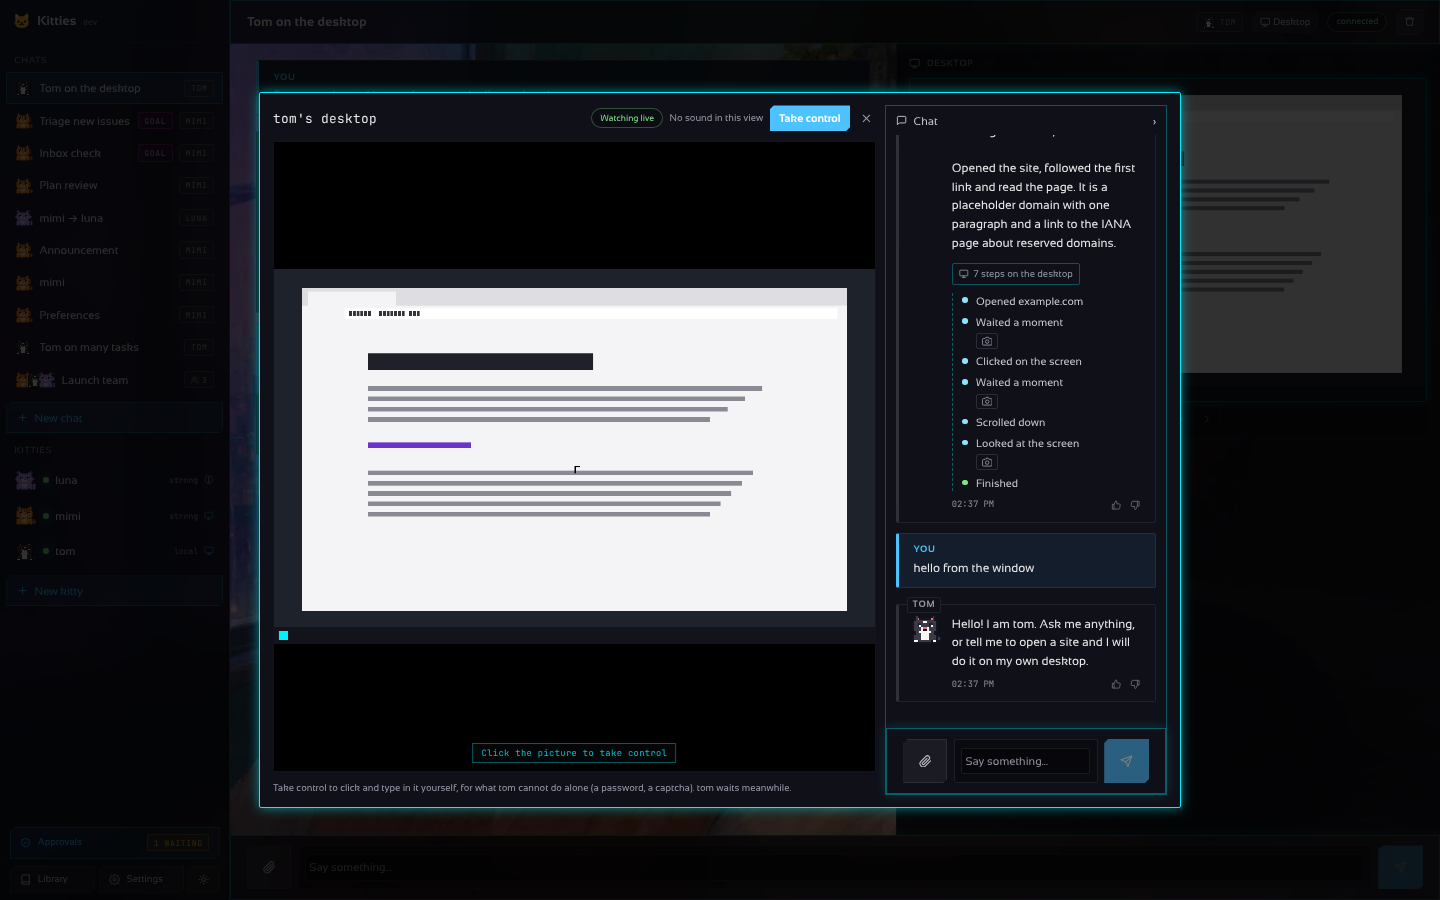
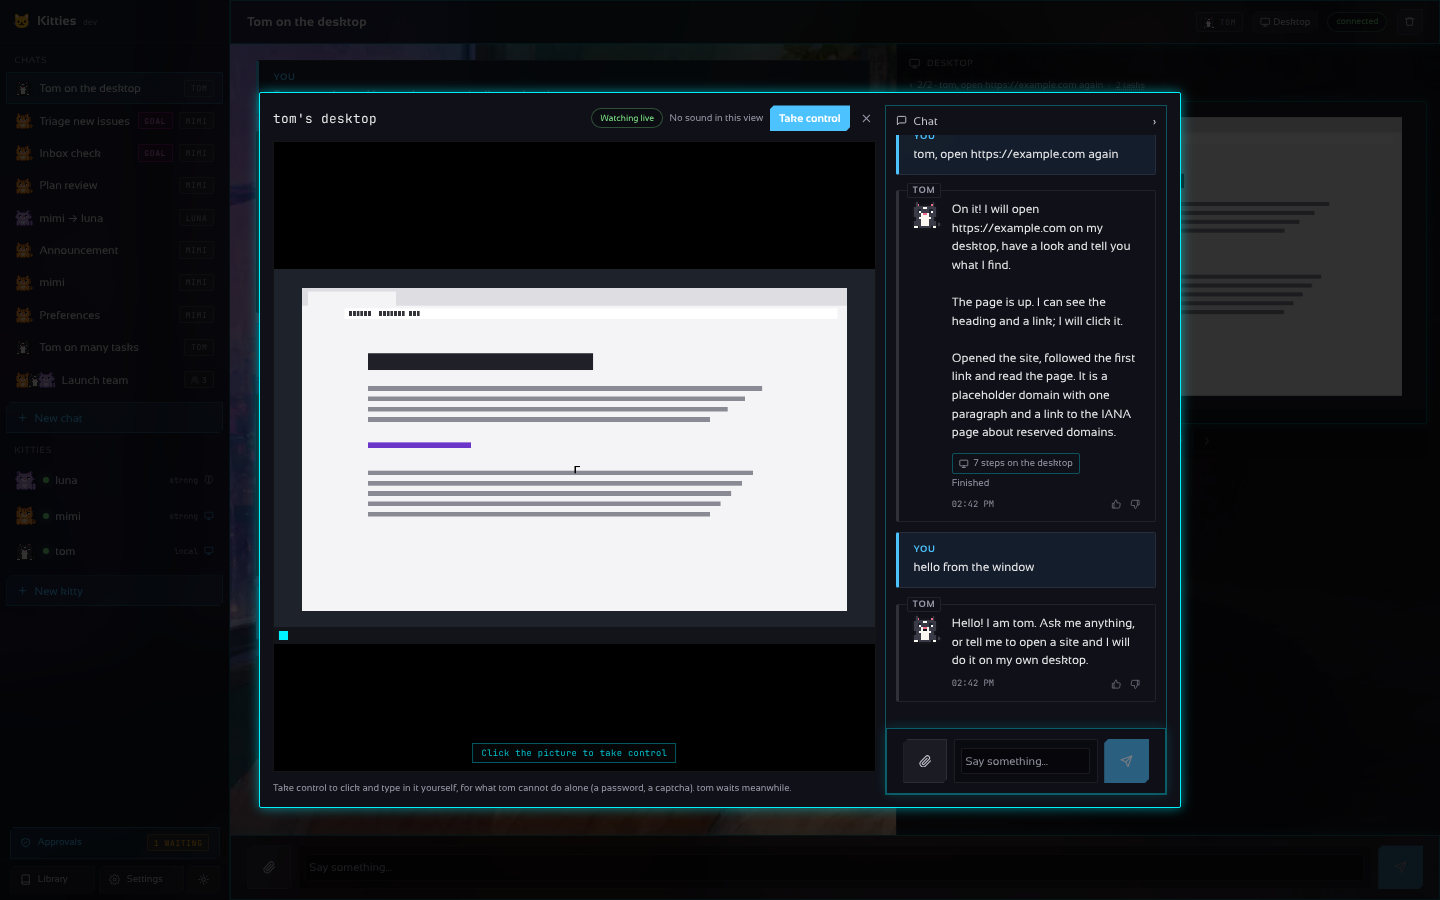
feat(desktop): show the direct chat in the drawer's enlarged desktop
The kitty's drawer loads its existing direct chat (and follows it live) and
passes it to the live desktop sidebar; the start-chat button stays for kitties
with no direct chat yet. Adds the phone screenshot.

Claude-Session: https://claude.ai/code/session_017Z7sUdTrGNJiTuMG8Z7Vs4

diff --git a/desktop/frontend/src/App.tsx b/desktop/frontend/src/App.tsx
@@ -201,11 +201,50 @@ export default function App() {
     }
   }, [current, loadSession]);
 
-  const working = useMemo(() => Boolean(session?.turns?.some((t) => t.working)), [session]);
+  // The chat a kitty's drawer shows beside its desktop: the direct chat with it, when there is one
+  // and no other chat is open (it is the chat of the page when it is the open one).
+  const [drawerSession, setDrawerSession] = useState<Session | null>(null);
+  const drawerKitty = kittyOpen
+    ? kitties.find((k) => k.id === kittyOpen || k.name === kittyOpen)
+    : undefined;
+  const drawerChatId = !current
+    ? chats.find((c) => c.members.length === 1 && c.members[0] === drawerKitty?.id)?.id
+    : undefined;
+  useEffect(() => {
+    if (!drawerChatId) {
+      setDrawerSession(null);
+      return;
+    }
+    let alive = true;
+    api
+      .chat(drawerChatId)
+      .then((s) => alive && setDrawerSession(s))
+      .catch(() => undefined);
+    const stop = watchChat(drawerChatId, (ev) => {
+      if (ev.turn === undefined || ev.index === undefined) {
+        return;
+      }
+      setDrawerSession((prev) => {
+        if (!prev || prev.id !== ev.session) {
+          return prev;
+        }
+        const turns = [...(prev.turns || [])];
+        turns[ev.index!] = ev.turn!;
+        return { ...prev, turns };
+      });
+    });
+    return () => {
+      alive = false;
+      stop();
+    };
+  }, [drawerChatId]);
+  // chatNow is the chat messages go to: the open one, or the drawer's.
+  const chatNow = current ? session : drawerSession;
+  const working = useMemo(() => Boolean(chatNow?.turns?.some((t) => t.working)), [chatNow]);
   // unshown is the message being sent until the chat itself has it.
   const unshown =
     pending !== null &&
-    !(session?.turns || [])
+    !(chatNow?.turns || [])
       .slice(pendingFrom)
       .some((t) => !t.kitty && t.text.trim() === pending.trim())
       ? pending
@@ -305,21 +344,25 @@ export default function App() {
   };
 
   const send = async (text: string, files: File[] = []) => {
-    if (!session) {
+    if (!chatNow) {
       return;
     }
-    setPendingFrom((session.turns || []).length);
+    setPendingFrom((chatNow.turns || []).length);
     // A message of files alone shows their names until the chat has it.
     setPending(text || files.map((f) => f.name).join(", "));
     setError("");
     let failed = "";
     try {
-      await api.send(session.id, text, files);
+      await api.send(chatNow.id, text, files);
     } catch (e) {
       failed = (e as Error).message;
     }
     setPending(null);
-    await loadSession(session.id);
+    if (current) {
+      await loadSession(chatNow.id);
+    } else {
+      setDrawerSession(await api.chat(chatNow.id).catch(() => chatNow));
+    }
     // A refresh clears the page's error when it reaches the gateway, so the refusal of a message
     // (a file the gateway will not take) is shown after it, and stays.
     await refresh();
@@ -329,9 +372,16 @@ export default function App() {
   };
 
   const cancel = async () => {
-    if (session) {
-      await api.cancel(session.id).catch(() => {});
-      loadSession(session.id);
+    if (chatNow) {
+      await api.cancel(chatNow.id).catch(() => {});
+      if (current) {
+        loadSession(chatNow.id);
+      } else {
+        api
+          .chat(chatNow.id)
+          .then(setDrawerSession)
+          .catch(() => undefined);
+      }
     }
   };
 
@@ -611,6 +661,20 @@ export default function App() {
           kitty={kitty}
           kitties={kitties}
           onOpenChat={openChat}
+          chat={
+            drawerSession
+              ? {
+                  session: drawerSession,
+                  kitties,
+                  user,
+                  pending: unshown,
+                  waiting: pending !== null && !working,
+                  busy: pending !== null || working,
+                  onSend: send,
+                  onCancel: cancel,
+                }
+              : undefined
+          }
           onClose={() => {
             location.hash = lastChat.current ? `#chat/${lastChat.current}` : "";
           }}

diff --git a/desktop/frontend/e2e/screens.spec.ts b/desktop/frontend/e2e/screens.spec.ts
@@ -1384,16 +1384,19 @@ test("Escape in the live desktop's chat box does not close the window", async ({
   await expect(live).toHaveCount(0);
 });
 
-test("from a kitty's drawer, the enlarged desktop offers the chat with it", async ({ page }) => {
+test("from a kitty's drawer, the enlarged desktop has its direct chat beside it", async ({
+  page,
+}) => {
   await open(page, `#chat/${ids.desktop}`);
   await kittyRow(page, "tom").click();
   const drawer = page.locator("[data-modal]");
   await drawer.getByTestId("live-enlarge").click();
-  const start = page.getByTestId("live-chat-start");
-  await expect(start).toBeVisible();
-  await start.getByRole("button", { name: "Chat with tom" }).click();
-  await expect(page).toHaveURL(/#chat\//);
-  await expect(page.getByTestId("live-desktop")).toHaveCount(0);
+  const chat = page.getByTestId("live-chat");
+  await expect(chat).toBeVisible();
+  await expect(chat.getByText("Opened the site").first()).toBeVisible();
+  await chat.getByRole("textbox").fill("hello from the drawer");
+  await chat.getByRole("button", { name: /send/i }).click();
+  await expect(chat.getByText("hello from the drawer").first()).toBeVisible();
 });
 
 test("on a phone the live desktop's chat is stacked under the picture, folded until asked for", async ({
@@ -1413,6 +1416,7 @@ test("on a phone the live desktop's chat is stacked under the picture, folded un
   expect(bar.x + bar.width).toBeLessThanOrEqual(edge.x + edge.width + 1);
   await chat.getByTestId("live-chat-toggle").click();
   await expect(chat.getByRole("textbox")).toBeVisible();
+  await shot(page, "58-live-chat-phone");
 });
 
 test("in a kitty's drawer the desktop is there, live, and one click on it takes the controls", async ({

diff --git a/desktop/frontend/src/Modals.tsx b/desktop/frontend/src/Modals.tsx
@@ -20,6 +20,7 @@ import { IconPlay, IconStop, IconTrash } from "./icons";
 import DesktopCare from "./DesktopCare";
 import MachinePower from "./MachinePower";
 import LiveDesktop from "./LiveDesktop";
+import type { LiveChatProps } from "./LiveChat";
 import { GoalsPanel, JournalPanel, LimitsForm } from "./Agenda";
 import { MemoryPanel } from "./Memory";
 import PixelCat, { BREEDS, CatPicker, COLORS, type Mood } from "./PixelCat";
@@ -582,6 +583,7 @@ export function KittyDrawer({
   onChanged,
   onChat,
   onOpenChat,
+  chat,
 }: {
   kitty: Kitty;
   kitties: Kitty[];
@@ -589,6 +591,8 @@ export function KittyDrawer({
   onChanged: () => void;
   onChat: () => void;
   onOpenChat: (id: string) => void;
+  // chat is the direct chat with this kitty, for the sidebar of its enlarged desktop.
+  chat?: LiveChatProps;
 }) {
   const [err, setErr] = useState("");
   const mood: Mood =
@@ -698,7 +702,13 @@ export function KittyDrawer({
           <div class="section-title !mx-0 mt-5">{t("Desktop")}</div>
           <MachinePower kitty={kitty} onChanged={onChanged} />
           {running ? (
-            <LiveDesktop kitty={kitty} inline onClose={() => undefined} onStartChat={onChat} />
+            <LiveDesktop
+              kitty={kitty}
+              inline
+              onClose={() => undefined}
+              chat={chat}
+              onStartChat={onChat}
+            />
           ) : (
             <p class="text-sm text-[var(--t3)]" data-testid="desktop-off">
               {t("Start {name} to see its desktop live and take control of it.", {
